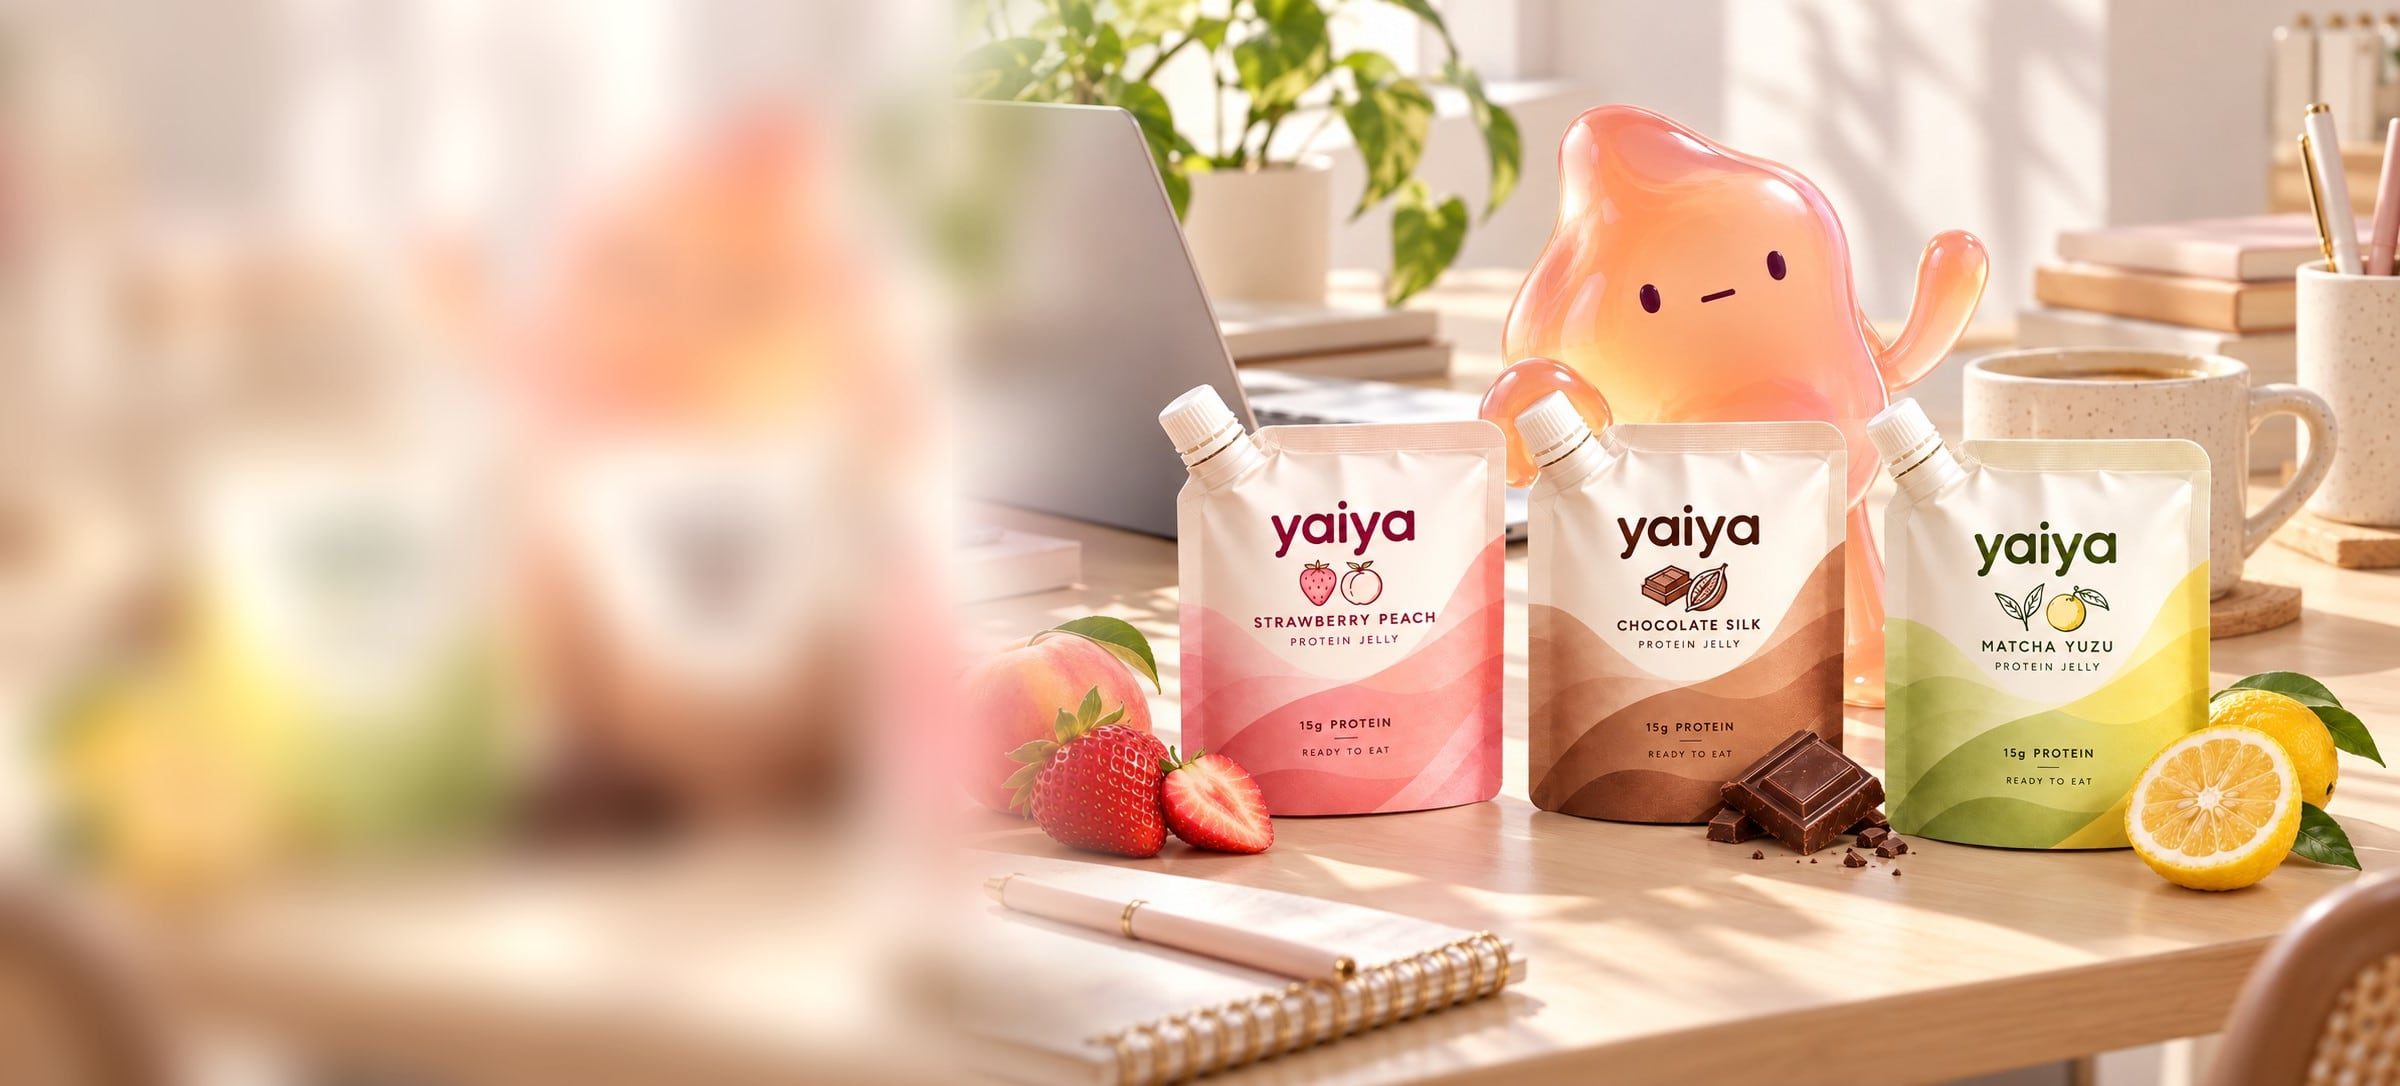
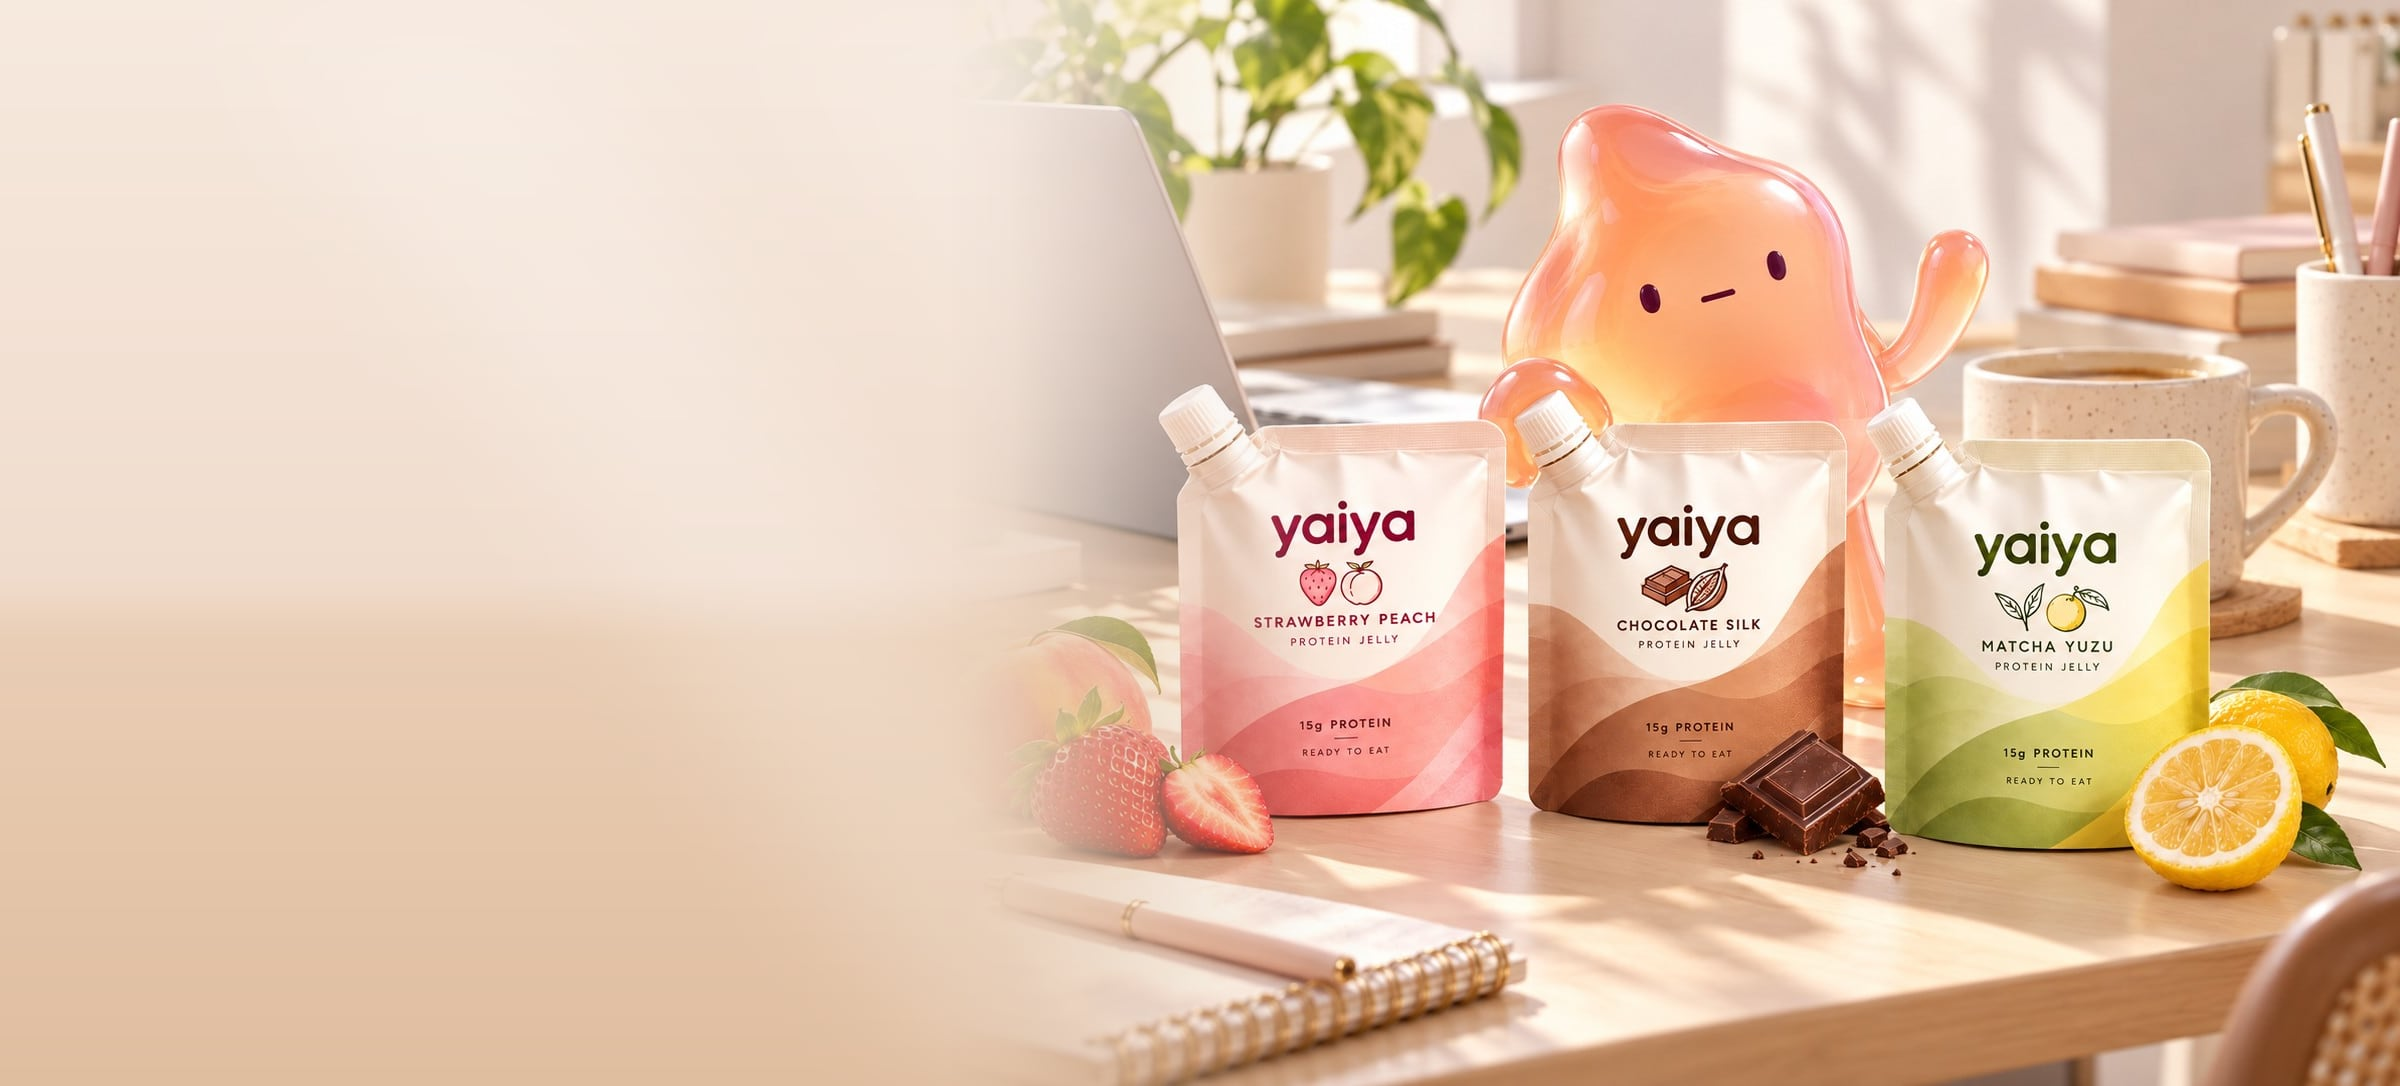
Hero: nav floats over the photo; cleaner scene extension
- Nav is transparent at the top and frosts once the page scrolls
  (one IntersectionObserver on a top sentinel)
- The hero slides under the nav so the photo fills the whole top
- extend-hero.mjs paints a calm wall-and-desk continuation with sunbeams
  in the scene's own colors instead of a mirrored blur
- Headline steps down at 1024-1279px so it clears the pouches

diff --git a/components/sections/Hero.tsx b/components/sections/Hero.tsx
@@ -34,7 +34,7 @@ function Bubbles() {
   return (
     <div aria-hidden className="pointer-events-none absolute inset-0 overflow-hidden">
       <span className="absolute top-[12%] left-[46%] size-24 rounded-full bg-mango/40 blur-2xl motion-safe:animate-drift lg:size-40" />
-      <span className="absolute top-[55%] left-[6%] size-28 rounded-full bg-accent/25 blur-2xl motion-safe:animate-drift [animation-delay:-5s] lg:size-48" />
+      <span className="absolute bottom-[4%] left-[30%] size-24 rounded-full bg-accent/15 blur-2xl motion-safe:animate-drift [animation-delay:-5s] lg:size-36" />
       <span className="absolute top-[8%] right-[8%] size-20 rounded-full bg-mint/40 blur-2xl motion-safe:animate-drift [animation-delay:-9s] lg:size-36" />
     </div>
   );
@@ -46,7 +46,7 @@ export function Hero() {
     <section
       id="top"
       aria-labelledby="hero-heading"
-      className="relative isolate overflow-hidden bg-cream lg:flex lg:aspect-[2400/1086] lg:max-h-[780px] lg:min-h-[560px] lg:w-full lg:items-center"
+      className="relative isolate -mt-nav overflow-hidden bg-cream pt-nav lg:-mt-nav-lg lg:flex lg:aspect-[2400/1086] lg:max-h-[820px] lg:min-h-[620px] lg:w-full lg:items-center lg:pt-nav-lg"
     >
       <div className="absolute inset-0 -z-10">
         <HeroPicture />
@@ -56,7 +56,7 @@ export function Hero() {
       </div>
 
       <Container className="relative">
-        <div className="pt-8 lg:max-w-[440px] lg:py-12 xl:max-w-[460px]">
+        <div className="pt-8 lg:max-w-[410px] lg:py-12 xl:max-w-[460px]">
           <Eyebrow>{hero.eyebrow}</Eyebrow>
           <h1 id="hero-heading" className="mt-3 type-h1 text-ink">
             {hero.headline.map((line, i) => (
@@ -86,7 +86,7 @@ export function Hero() {
         <div aria-hidden className="aspect-[1358/1000] lg:hidden" />
       </Container>
 
-      <HandNote rotate={6} mark="heart" className="absolute top-8 right-10 max-w-[160px] text-right">
+      <HandNote rotate={6} mark="heart" className="absolute top-24 right-10 max-w-[160px] text-right">
         {hero.note}
       </HandNote>
     </section>

diff --git a/components/sections/Nav.tsx b/components/sections/Nav.tsx
@@ -1,4 +1,5 @@
 import Link from "next/link";
+import { NavScrollState } from "@/components/NavScrollState";
 import { Container } from "@/components/ui/Container";
 import { WaitlistButton } from "@/components/ui/WaitlistButton";
 import { Wordmark } from "@/components/ui/Wordmark";
@@ -8,7 +9,12 @@ const { nav } = site;
 
 export function Nav() {
   return (
-    <header className="sticky top-0 z-40 border-b border-line bg-paper/94 backdrop-blur-[12px]">
+    // Transparent over the hero at the top of the page; frosted once scrolled.
+    <header
+      id="site-header"
+      className="sticky top-0 z-40 border-b border-transparent transition-[background-color,border-color,box-shadow] duration-300 data-scrolled:border-line data-scrolled:bg-paper/90 data-scrolled:backdrop-blur-[12px]"
+    >
+      <NavScrollState />
       <Container className="flex h-nav items-center justify-between gap-4 lg:h-nav-lg">
         <Link href="#top" className="-m-2 inline-flex min-h-11 items-center rounded-small p-2">
           <Wordmark alt={nav.wordmarkAlt} className="h-6 lg:h-7" />

diff --git a/app/layout.tsx b/app/layout.tsx
@@ -42,7 +42,9 @@ export default function RootLayout({
         {/* Lets CSS hide scroll-reveal content only when JS will reveal it. */}
         <script dangerouslySetInnerHTML={{ __html: "document.documentElement.classList.add('js')" }} />
       </head>
-      <body className="bg-cream text-ink antialiased">
+      <body className="relative bg-cream text-ink antialiased">
+        {/* Watched by NavScrollState: while it is on screen, the page is at the top. */}
+        <div id="top-sentinel" aria-hidden className="pointer-events-none absolute top-0 h-2 w-px" />
         <a
           href="#main"
           className="sr-only z-50 rounded-pill bg-berry px-4 py-3 type-button text-white focus:not-sr-only focus:fixed focus:top-2 focus:left-2"

diff --git a/components/NavScrollState.tsx b/components/NavScrollState.tsx
@@ -1,0 +1,22 @@
+"use client";
+
+import { useEffect } from "react";
+
+/**
+ * Marks the header with data-scrolled once the page leaves the very top, so the
+ * nav can float transparently over the hero and turn frosted after that.
+ * Watches a 1px sentinel at the top of the page; no scroll listeners.
+ */
+export function NavScrollState() {
+  useEffect(() => {
+    const header = document.getElementById("site-header");
+    const sentinel = document.getElementById("top-sentinel");
+    if (!header || !sentinel) return;
+    const io = new IntersectionObserver(([e]) => {
+      header.toggleAttribute("data-scrolled", !e.isIntersecting);
+    });
+    io.observe(sentinel);
+    return () => io.disconnect();
+  }, []);
+  return null;
+}

diff --git a/app/globals.css b/app/globals.css
@@ -184,6 +184,9 @@
   line-height: 0.98;
   letter-spacing: -0.02em;
   @media (width >= 1024px) {
+    font-size: 54px;
+  }
+  @media (width >= 1280px) {
     font-size: 64px;
   }
 }
